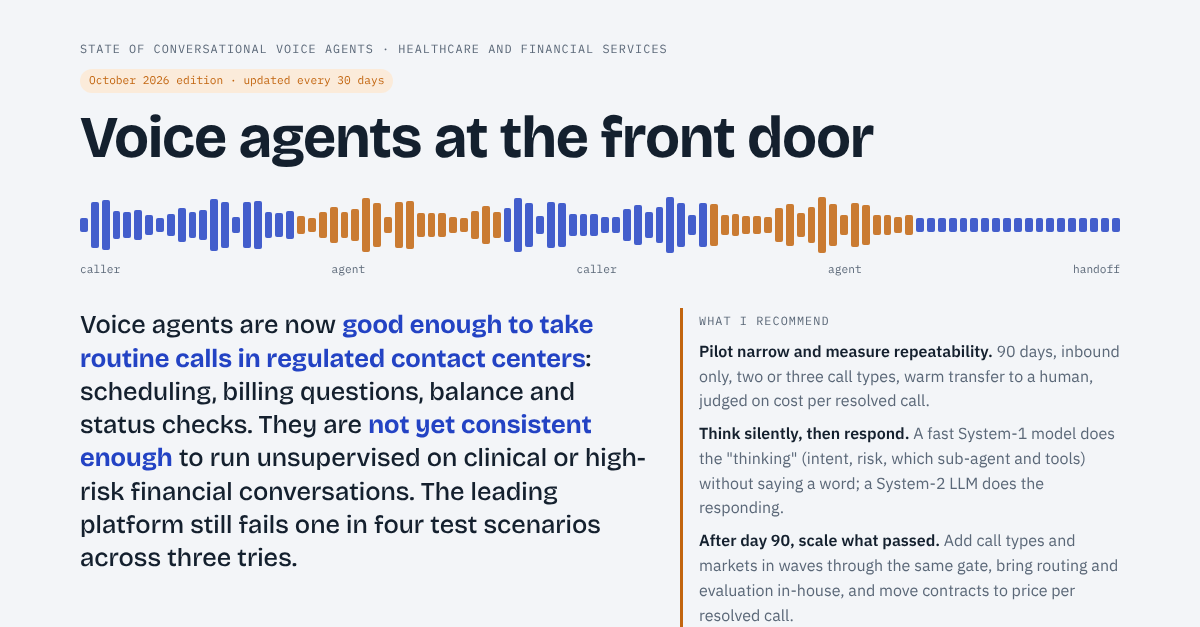
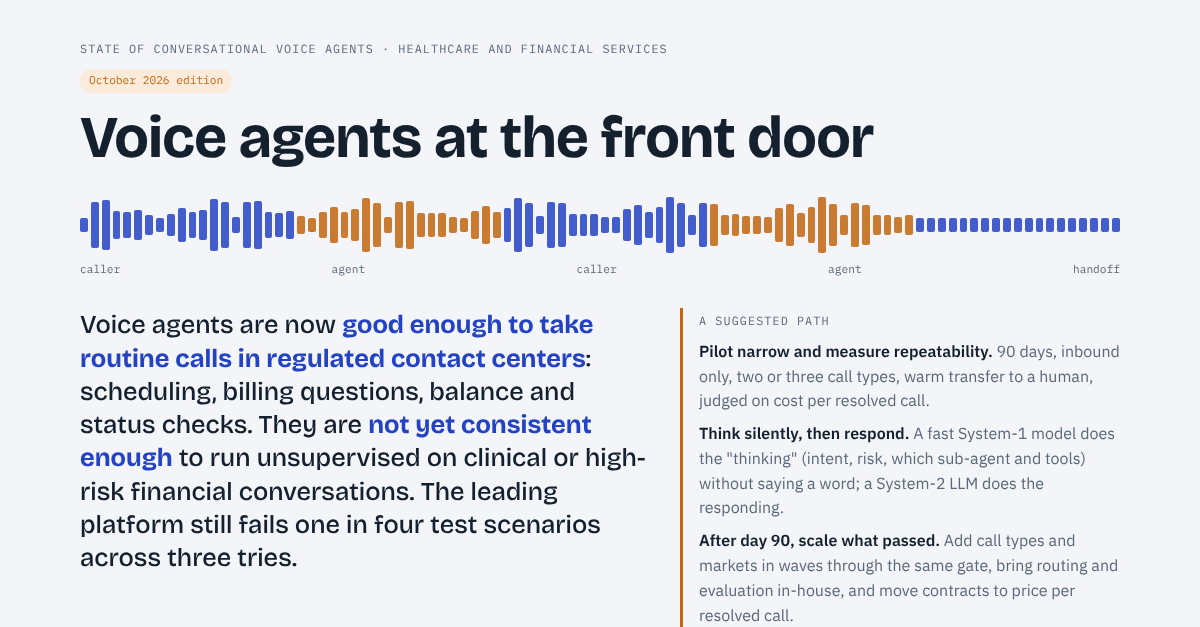
Soften recommendation heading
Claude-Session: https://claude.ai/code/session_01JFD7UqsbAJrb4h5Z4J4fRa

Changed region(s): [[0.185, 0.0909, 0.3392, 0.1515], [0.5858, 0.4848, 0.6783, 0.5152]]

diff --git a/editions/2026-10/index.html b/editions/2026-10/index.html
@@ -469,7 +469,7 @@ ol.src li:target{background:var(--accent-soft)}
     <div class="bottom-line">
       <p class="say">Voice agents are now <b>good enough to take routine calls in regulated contact centers</b>: scheduling, billing questions, balance and status checks. They are <b>not yet consistent enough</b> to run unsupervised on clinical or high-risk financial conversations. The leading platform still fails one in four test scenarios across three tries.</p>
       <div class="ask">
-        <span class="eyebrow">What I recommend</span>
+        <span class="eyebrow">A suggested path</span>
         <p><strong>Pilot narrow and measure repeatability.</strong> 90 days, inbound only, two or three call types, warm transfer to a human, judged on cost per resolved call.</p>
         <p><strong>Think silently, then respond.</strong> A fast System-1 model does the "thinking" (intent, risk, which sub-agent and tools) without saying a word; a System-2 LLM does the responding.</p>
         <p><strong>After day 90, scale what passed.</strong> Add call types and markets in waves through the same gate, bring routing and evaluation in-house, and move contracts to price per resolved call.</p>

diff --git a/index.html b/index.html
@@ -469,7 +469,7 @@ ol.src li:target{background:var(--accent-soft)}
     <div class="bottom-line">
       <p class="say">Voice agents are now <b>good enough to take routine calls in regulated contact centers</b>: scheduling, billing questions, balance and status checks. They are <b>not yet consistent enough</b> to run unsupervised on clinical or high-risk financial conversations. The leading platform still fails one in four test scenarios across three tries.</p>
       <div class="ask">
-        <span class="eyebrow">What I recommend</span>
+        <span class="eyebrow">A suggested path</span>
         <p><strong>Pilot narrow and measure repeatability.</strong> 90 days, inbound only, two or three call types, warm transfer to a human, judged on cost per resolved call.</p>
         <p><strong>Think silently, then respond.</strong> A fast System-1 model does the "thinking" (intent, risk, which sub-agent and tools) without saying a word; a System-2 LLM does the responding.</p>
         <p><strong>After day 90, scale what passed.</strong> Add call types and markets in waves through the same gate, bring routing and evaluation in-house, and move contracts to price per resolved call.</p>
